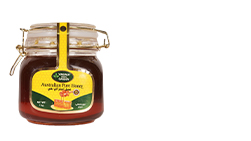
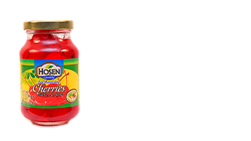
changes-2

Changed region(s): [[0.0279, 0.1418, 0.4462, 0.9078]]

diff --git a/product.html b/product.html
@@ -53,24 +53,13 @@
                                             <a href="#">BDT</a>
                                             <div class="header-menu">
                                                 <ul>
-                                                    <li><a href="#">Bdt</a></li>
-                                                    <li><a href="#">Usd</a></li>
+                                                    <li><a href="#">BDT</a></li>
+                                                    <li><a href="#">USD</a></li>
                                                 </ul>
                                             </div><!-- End .header-menu -->
                                         </div><!-- End .header-dropdown -->
                                     </li>
-                                    <li>   
-                                        <div class="header-dropdown">
-                                            <a href="#">Engligh</a>
-                                            <div class="header-menu">
-                                                <ul>
-                                                    <li><a href="#">English</a></li>
-                                                    <li><a href="#">Bengali</a></li>
-                                                    
-                                                </ul>
-                                            </div><!-- End .header-menu -->
-                                        </div><!-- End .header-dropdown -->
-                                    </li>
+
                                     <li class="login">
                                         <a href="#signin-modal" data-toggle="modal">Sign in / Sign up</a>
                                     </li>
@@ -216,66 +205,9 @@
                                 </li>
                                 <li>
                                     <a href="#" >Brand</a>
-
-
                                 </li>
                                 <li>
-                                    <a href="#" class="sf-with-ul">Shop</a>
-
-                                    <div class="megamenu megamenu-md">
-                                    <div class="row no-gutters">
-                                        <div class="col-md-8">
-                                            <div class="menu-col">
-                                                <div class="row">
-                                                    <div class="col-md-6">
-                                                        <div class="menu-title">Shop 1</div><!-- End .menu-title -->
-                                                        <ul>
-                                                            <li><a href="#">Shop 1.1</a></li>
-                                                            <li><a href="#">Shop 1.2</a></li>
-                                                            <li><a href="#">Shop 1.3</a></li>
-                                                            <li><a href="#">Shop 1.4</a></li>
-                                                            <li><a href="#"><span>Shop 1.5<span class="tip tip-new">New</span></span></a></li>
-                                                        </ul>
-
-                                                        <div class="menu-title">Shop 2</div><!-- End .menu-title -->
-                                                        <ul>
-                                                            <li><a href="#"><span>Shop 2.1<span class="tip tip-hot">Hot</span></span></a></li>
-                                                            <li><a href="#">Shop 2.2</a></li>
-                                                        </ul>
-                                                    </div><!-- End .col-md-6 -->
-
-                                                    <div class="col-md-6">
-                                                        <div class="menu-title">Shop 3</div><!-- End .menu-title -->
-                                                        <ul>
-                                                            <li><a href="#">Shop 3.1</a></li>
-                                                            <li><a href="#"><span>Shop 3.2<span class="tip tip-new">New</span></span></a></li>
-                                                        </ul>
-                                                        <div class="menu-title">Shop 4</div><!-- End .menu-title -->
-                                                        <ul>
-                                                            <li><a href="#">Shop 4.1</a></li>
-                                                            <li><a href="#">Shop 4.2</a></li>
-                                                            <li><a href="#">Shop 4.3</a></li>
-                                                            <li><a href="#">Shop 4.4</a></li>
-                                                            <li><a href="#">Shop 4.5</a></li>
-                                                        </ul>
-                                                    </div><!-- End .col-md-6 -->
-                                                </div><!-- End .row -->
-                                            </div><!-- End .menu-col -->
-                                        </div><!-- End .col-md-8 -->
-
-                                        <div class="col-md-4">
-                                            <div class="banner banner-overlay">
-                                                <a href="#" class="banner banner-menu">
-                                                    <img src="assets/images/menu/banner-1.jpg" alt="Banner">
-
-                                                    <div class="banner-content banner-content-top">
-                                                        <div class="banner-title text-white">Last <br>Chance<br><span><strong>Sale</strong></span></div><!-- End .banner-title -->
-                                                    </div><!-- End .banner-content -->
-                                                </a>
-                                            </div><!-- End .banner banner-overlay -->
-                                        </div><!-- End .col-md-4 -->
-                                    </div><!-- End .row -->
-                                </div><!-- End .megamenu megamenu-md -->
+                                    <a href="#" >Shop</a>
                                 </li>
 
                                 <li>
@@ -283,62 +215,7 @@
                                 </li>
 
                                 <li>
-                                    <a href="#" class="sf-with-ul">Offer</a>
-
-                                    <div class="megamenu megamenu-md">
-                                    <div class="row no-gutters">
-                                        <div class="col-md-8">
-                                            <div class="menu-col">
-                                                <div class="row">
-                                                    <div class="col-md-6">
-                                                        <div class="menu-title">Offer 1</div><!-- End .menu-title -->
-                                                        <ul>
-                                                            <li><a href="#">Offer 1.1</a></li>
-                                                            <li><a href="#">Offer 1.2</a></li>
-                                                            <li><a href="#">Offer 1.3</a></li>
-                                                            <li><a href="#">Offer 1.4</a></li>
-                                                            <li><a href="#"><span>Offer 1.5<span class="tip tip-new">New</span></span></a></li>
-                                                        </ul>
-
-                                                        <div class="menu-title">Offer 2</div><!-- End .menu-title -->
-                                                        <ul>
-                                                            <li><a href="#"><span>Offer 2.1<span class="tip tip-hot">Hot</span></span></a></li>
-                                                            <li><a href="#">Offer 2.2</a></li>
-                                                        </ul>
-                                                    </div><!-- End .col-md-6 -->
-
-                                                    <div class="col-md-6">
-                                                        <div class="menu-title">Offer 3</div><!-- End .menu-title -->
-                                                        <ul>
-                                                            <li><a href="#">Offer 3.1</a></li>
-                                                            <li><a href="#"><span>Offer 3.2<span class="tip tip-new">New</span></span></a></li>
-                                                        </ul>
-                                                        <div class="menu-title">Offer 4</div><!-- End .menu-title -->
-                                                        <ul>
-                                                            <li><a href="#">Offer 4.1</a></li>
-                                                            <li><a href="#">Offer 4.2</a></li>
-                                                            <li><a href="#">Offer 4.3</a></li>
-                                                            <li><a href="#">Offer 4.4</a></li>
-                                                            <li><a href="#">Offer 4.5</a></li>
-                                                        </ul>
-                                                    </div><!-- End .col-md-6 -->
-                                                </div><!-- End .row -->
-                                            </div><!-- End .menu-col -->
-                                        </div><!-- End .col-md-8 -->
-
-                                        <div class="col-md-4">
-                                            <div class="banner banner-overlay">
-                                                <a href="#" class="banner banner-menu">
-                                                    <img src="assets/images/menu/banner-1.jpg" alt="Banner">
-
-                                                    <div class="banner-content banner-content-top">
-                                                        <div class="banner-title text-white">Last <br>Chance<br><span><strong>Sale</strong></span></div><!-- End .banner-title -->
-                                                    </div><!-- End .banner-content -->
-                                                </a>
-                                            </div><!-- End .banner banner-overlay -->
-                                        </div><!-- End .col-md-4 -->
-                                    </div><!-- End .row -->
-                                </div><!-- End .megamenu megamenu-md -->
+                                    <a href="#" >Offer</a>
                                 </li>
 
                                 
@@ -415,7 +292,7 @@
 
                             <div class="col-md-6">
                                 <div class="product-details">
-                                    <h1 class="product-title">Jalapeno Pepper</h1><!-- End .product-title -->
+                                    <h1 class="product-title">Best's Mushroom</h1><!-- End .product-title -->
 
                                     <div class="ratings-container">
                                         <div class="ratings">
@@ -425,11 +302,11 @@
                                     </div><!-- End .rating-container -->
 
                                     <div class="product-price">
-                                        ৳600.00
+                                        ৳110.00
                                     </div><!-- End .product-price -->
 
                                     <div class="product-content">
-                                        <p>Sed egestas, ante et vulputate volutpat, eros pede semper est, vitae luctus metus libero eu augue. Morbi purus libero, faucibus adipiscing. Sed lectus. </p>
+                                        <p>The large pieces of selected mushrooms of Best's Brand mushrooms are delightfully packed fresh from harvest. It’s guaranteed to contain colouring, hence suitable for everyone! </p>
                                     </div><!-- End .product-content -->
 
                                     <div class="details-filter-row details-row-size">
@@ -452,12 +329,11 @@
                                                 <option value="#" selected="selected">Select a size</option>
                                                 <option value="s">100g</option>
                                                 <option value="m">200g</option>
-                                                <option value="l">400g</option>
-                                                <option value="xl">500g</option>
+                                                <option value="l">425g</option>
                                             </select>
                                         </div><!-- End .select-custom -->
 
-                                        <a href="#" class="size-guide"><i class="icon-th-list"></i>size guide</a>
+                                       
                                     </div><!-- End .details-filter-row -->
 
                                     <div class="details-filter-row details-row-size">

diff --git a/index.html b/index.html
@@ -560,7 +560,7 @@
                                                         <div class="col-md-4">
                                                             <div class="banner">
                                                                 <a href="#">
-                                                                    <img src="assets/images/demos/demo-13/menu/1.jpg" alt="image">
+                                                                    <img src="assets/images/demos/demo-13/menu/4.jpg" alt="image">
                                                                 </a>
                                                             </div><!-- End .banner -->
                                                         </div><!-- End .col-md-4 -->
@@ -568,7 +568,7 @@
                                                         <div class="col-md-4">
                                                             <div class="banner">
                                                                 <a href="#">
-                                                                    <img src="assets/images/demos/demo-13/menu/2.jpg" alt="image">
+                                                                    <img src="assets/images/demos/demo-13/menu/5.jpg" alt="image">
                                                                 </a>
                                                             </div><!-- End .banner -->
                                                         </div><!-- End .col-md-4 -->
@@ -576,7 +576,7 @@
                                                         <div class="col-md-4">
                                                             <div class="banner">
                                                                 <a href="#">
-                                                                    <img src="assets/images/demos/demo-13/menu/3.jpg" alt="image">
+                                                                    <img src="assets/images/demos/demo-13/menu/6.jpg" alt="image">
                                                                 </a>
                                                             </div><!-- End .banner -->
                                                         </div><!-- End .col-md-4 -->
@@ -607,7 +607,7 @@
                                                                         <li><a href="#">Kellogg's Corn Flakes Orginal</a></li>
                                                                         <li><a href="#">Kellogg's Chocos Webs</a></li>
                                                                         <li><a href="#">Kellogg's Chocos</a></li>
-                                                                        <li><a href="#">Product XXX</a></li>
+                                                                        <li><a href="#">Kellogg's Chocos Webs</a></li>
                                                                         
                                                                     </ul>
 
@@ -639,7 +639,7 @@
                                                     <div class="col-md-4">
                                                         <div class="banner banner-overlay">
                                                             <a href="#" class="banner banner-menu">
-                                                                <img src="assets/images/demos/demo-13/menu/banner-1.jpg" alt="Banner">
+                                                                <img src="assets/images/demos/demo-13/menu/banner-4.jpg" alt="Banner">
                                                             </a>
                                                         </div><!-- End .banner banner-overlay -->
                                                     </div><!-- End .col-md-4 -->
